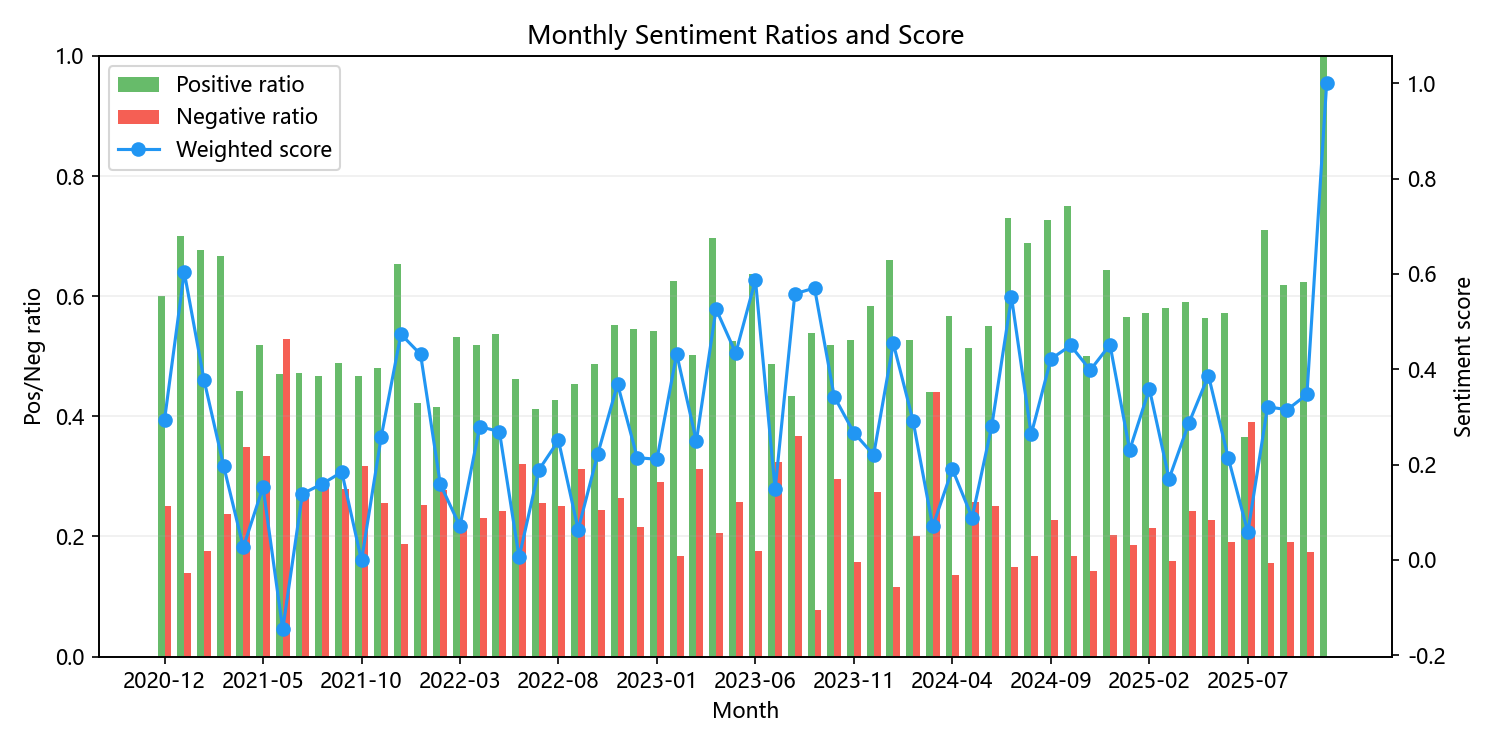
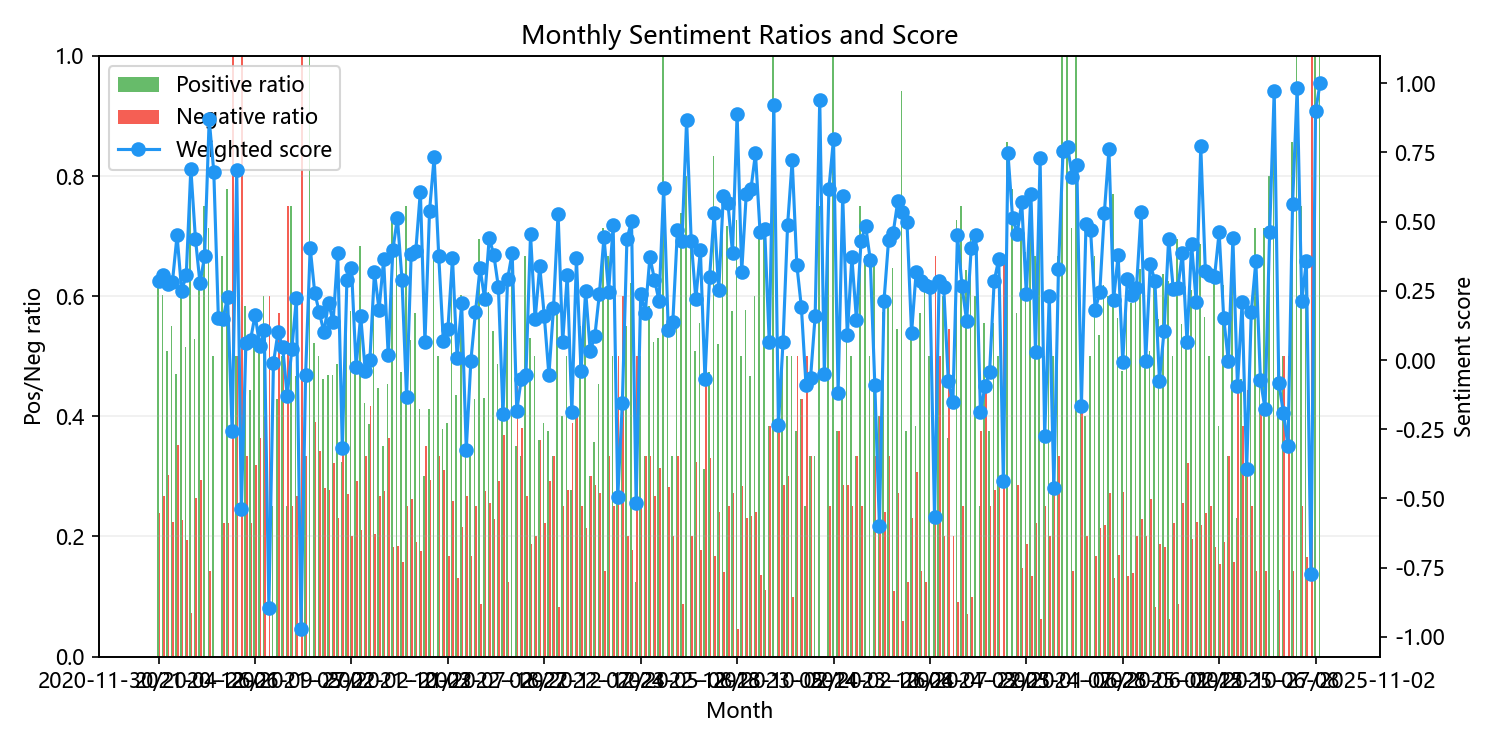
全面按周划分情感变化

diff --git a/analysis/visualize.py b/analysis/visualize.py
@@ -245,10 +245,11 @@ def plot_weekly_sentiment_with_candidates(weekly_csv: str, candidate_csv: str, o
 
 
 def main():
-    ts_csv = os.environ.get("DZ_SENT_TS", os.path.join("analysis","sentiment_timeseries.csv"))
+    # 统一使用按周聚合的情感时序数据
+    ts_csv = os.environ.get("DZ_WEEKLY_TS", os.path.join("analysis","sentiment_timeseries_weekly.csv"))
     topics_csv = os.environ.get("DZ_TOPICS", os.path.join("analysis","topics_by_window.csv"))
     out_dir = os.environ.get("DZ_ANALYSIS_DIR", os.path.join("analysis"))
-    weekly_csv = os.environ.get("DZ_WEEKLY_TS", os.path.join("analysis","sentiment_timeseries_weekly.csv"))
+    weekly_csv = ts_csv
     cand_weeks_csv = os.path.join(out_dir, "candidate_weeks.csv")
     a = plot_sentiment(ts_csv, out_dir)
     b = wordcloud_from_topics(topics_csv, out_dir)
